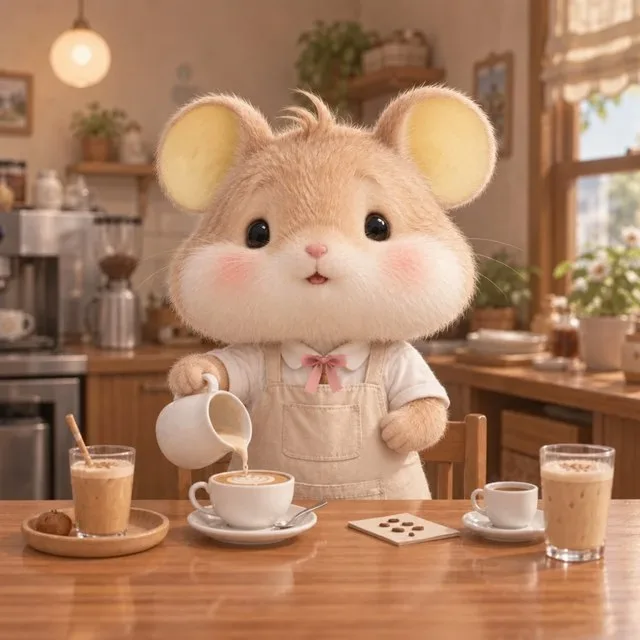
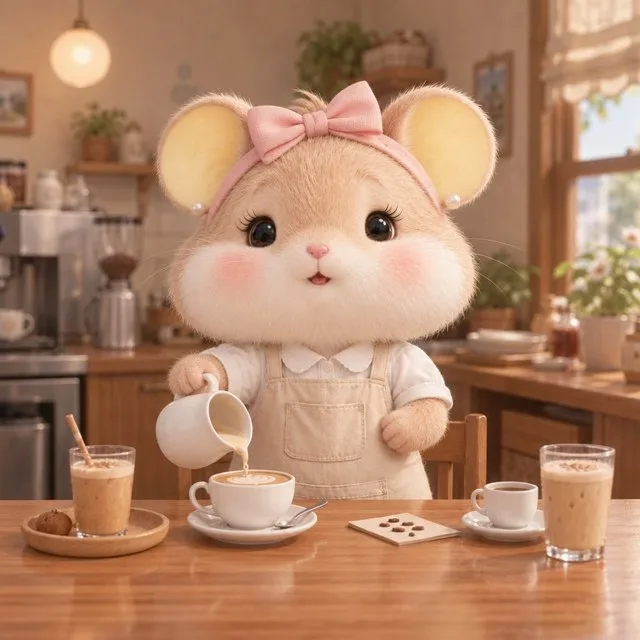
여성 험쮜 정장 장면 핑크 트위드 스타일
Claude-Session: https://claude.ai/code/session_013o6MwTRjv9wdDZ1RWn6mmU

diff --git a/sw.js b/sw.js
@@ -1,5 +1,5 @@
 // 자동 생성 파일: tools/build.py가 만든다. 직접 고치지 말고 tools/sw.template.js를 고칠 것
-const CACHE='humzzwi-2026.10.10-746b24';
+const CACHE='humzzwi-2026.10.10-a4d752';
 const ASSETS=["./", "index.html", "manifest.json", "icon-192.png", "icon-512.png", "apple-touch-icon.png", "fonts/GowunDodum-Regular.woff2", "fonts/Jua-Regular.woff2", "assets/a_bear.webp", "assets/a_daram.webp", "assets/a_daram_f.webp", "assets/a_eunbin.webp", "assets/a_fox.webp", "assets/a_hanmin.webp", "assets/a_hyunsu.webp", "assets/a_hz_walk.webp", "assets/a_hz_walk_b.webp", "assets/a_jaemin.webp", "assets/a_jiyoung.webp", "assets/a_lab.webp", "assets/a_sangho.webp", "assets/a_seohwi.webp", "assets/a_sumin.webp", "assets/badge.webp", "assets/c_ai.webp", "assets/c_ai_b.webp", "assets/c_blind.webp", "assets/c_blind_b.webp", "assets/c_blog.webp", "assets/c_blog_b.webp", "assets/c_cafe.webp", "assets/c_cafe_b.webp", "assets/c_cafe_b_w.webp", "assets/c_cafe_w.webp", "assets/c_coffee.webp", "assets/c_coffee_b.webp", "assets/c_content.webp", "assets/c_content_b.webp", "assets/c_cs.webp", "assets/c_cs_b.webp", "assets/c_date.webp", "assets/c_date_b.webp", "assets/c_daytrip.webp", "assets/c_daytrip_b.webp", "assets/c_english.webp", "assets/c_english_b.webp", "assets/c_erp.webp", "assets/c_erp_b.webp", "assets/c_ev_ceo.webp", "assets/c_ev_ceo_b.webp", "assets/c_ev_ceo_b_w.webp", "assets/c_ev_ceo_w.webp", "assets/c_ev_jobup.webp", "assets/c_ev_jobup_b.webp", "assets/c_ev_promo.webp", "assets/c_ev_promo_b.webp", "assets/c_excel.webp", "assets/c_excel_b.webp", "assets/c_filling.webp", "assets/c_filling_b.webp", "assets/c_formula.webp", "assets/c_formula_b.webp", "assets/c_friends.webp", "assets/c_friends_b.webp", "assets/c_global.webp", "assets/c_global_b.webp", "assets/c_gym.webp", "assets/c_gym_b.webp", "assets/c_half.webp", "assets/c_half_b.webp", "assets/c_ingredient.webp", "assets/c_ingredient_b.webp", "assets/c_jeju.webp", "assets/c_jeju_b.webp", "assets/c_keymsg.webp", "assets/c_keymsg_b.webp", "assets/c_leave.webp", "assets/c_leave_b.webp", "assets/c_lecture.webp", "assets/c_lecture_b.webp", "assets/c_license.webp", "assets/c_license_b.webp", "assets/c_logistics.webp", "assets/c_logistics_b.webp", "assets/c_mba.webp", "assets/c_mba_b.webp", "assets/c_mba_b_w.webp", "assets/c_mba_w.webp", "assets/c_md.webp", "assets/c_md_b.webp", "assets/c_minutes.webp", "assets/c_minutes_b.webp", "assets/c_orient.webp", "assets/c_orient_b.webp", "assets/c_overtime.webp", "assets/c_overtime_b.webp", "assets/c_package.webp", "assets/c_package_b.webp", "assets/c_pilates.webp", "assets/c_pilates_b.webp", "assets/c_pt.webp", "assets/c_pt_b.webp", "assets/c_research.webp", "assets/c_research_b.webp", "assets/c_review.webp", "assets/c_review_b.webp", "assets/c_run.webp", "assets/c_run_b.webp", "assets/c_schedule.webp", "assets/c_schedule_b.webp", "assets/c_selfdate.webp", "assets/c_selfdate_b.webp", "assets/c_settle.webp", "assets/c_settle_b.webp", "assets/c_settle_b_w.webp", "assets/c_settle_w.webp", "assets/c_shoot.webp", "assets/c_shoot_b.webp", "assets/c_shop_hb.webp", "assets/c_shop_hb_b.webp", "assets/c_shop_mall.webp", "assets/c_shop_mall_b.webp", "assets/c_shop_online.webp", "assets/c_shop_online_b.webp", "assets/c_snack.webp", "assets/c_snack_b.webp", "assets/c_store.webp", "assets/c_store_b.webp", "assets/c_tokyo.webp", "assets/c_tokyo_b.webp", "assets/c_trip.webp", "assets/c_trip_b.webp", "assets/c_walk.webp", "assets/c_walk_b.webp", "assets/d_aquarium_f.webp", "assets/d_aquarium_f_b.webp", "assets/d_aquarium_m.webp", "assets/d_aquarium_m_b.webp", "assets/d_bike_f.webp", "assets/d_bike_f_b.webp", "assets/d_bike_m.webp", "assets/d_bike_m_b.webp", "assets/d_coffeechat_f.webp", "assets/d_coffeechat_f_b.webp", "assets/d_coffeechat_m.webp", "assets/d_coffeechat_m_b.webp", "assets/d_coffeeget_f.webp", "assets/d_coffeeget_f_b.webp", "assets/d_coffeeget_m.webp", "assets/d_coffeeget_m_b.webp", "assets/d_coffeegive_f.webp", "assets/d_coffeegive_f_b.webp", "assets/d_coffeegive_m.webp", "assets/d_coffeegive_m_b.webp", "assets/d_coffeeshare_f.webp", "assets/d_coffeeshare_f_b.webp", "assets/d_coffeeshare_m.webp", "assets/d_coffeeshare_m_b.webp", "assets/d_confess_f.webp", "assets/d_confess_f_b.webp", "assets/d_confess_m.webp", "assets/d_confess_m_b.webp", "assets/d_exhibit_f.webp", "assets/d_exhibit_f_b.webp", "assets/d_exhibit_m.webp", "assets/d_exhibit_m_b.webp", "assets/d_hanok_f.webp", "assets/d_hanok_f_b.webp", "assets/d_hanok_m.webp", "assets/d_hanok_m_b.webp", "assets/d_movie_f.webp", "assets/d_movie_f_b.webp", "assets/d_movie_m.webp", "assets/d_movie_m_b.webp", "assets/d_park_f.webp", "assets/d_park_f_b.webp", "assets/d_park_m.webp", "assets/d_park_m_b.webp", "assets/d_picnic_f.webp", "assets/d_picnic_f_b.webp", "assets/d_picnic_m.webp", "assets/d_picnic_m_b.webp", "assets/d_popup_f.webp", "assets/d_popup_f_b.webp", "assets/d_popup_m.webp", "assets/d_popup_m_b.webp", "assets/d_ramen_f.webp", "assets/d_ramen_f_b.webp", "assets/d_ramen_m.webp", "assets/d_ramen_m_b.webp", "assets/d_vacation_f.webp", "assets/d_vacation_f_b.webp", "assets/d_vacation_m.webp", "assets/d_vacation_m_b.webp", "assets/ev_arrive.webp", "assets/ev_arrive_b.webp", "assets/ev_building.webp", "assets/ev_dinner.webp", "assets/ev_overload.webp", "assets/ev_pass.webp", "assets/ev_pass_b.webp", "assets/ev_present.webp", "assets/ev_reject.webp", "assets/ev_reject_b.webp", "assets/ev_studio.webp", "assets/ev_studio_b.webp", "assets/ev_subway.webp", "assets/ev_subway_b.webp", "assets/f_bear.webp", "assets/f_ceo.webp", "assets/f_daram.webp", "assets/f_daram_f.webp", "assets/f_eunbin.webp", "assets/f_fox.webp", "assets/f_hanmin.webp", "assets/f_hyunsu.webp", "assets/f_hz.webp", "assets/f_jaemin.webp", "assets/f_jiyoung.webp", "assets/f_lab.webp", "assets/f_sangho.webp", "assets/f_seohwi.webp", "assets/f_sumin.webp", "assets/hz.png", "assets/id_bad.webp", "assets/id_good.webp", "assets/id_ok.webp", "assets/lunch.webp", "assets/m_box.webp", "assets/m_box_b.webp", "assets/m_fit.webp", "assets/m_fit_b.webp", "assets/m_lab.webp", "assets/m_lab_b.webp", "assets/m_phone.webp", "assets/m_phone_b.webp", "assets/m_study.webp", "assets/m_study_b.webp", "assets/pl_boss.webp", "assets/pl_cafe.webp", "assets/pl_lab.webp", "assets/pl_mkt.webp", "assets/pl_ops.webp", "assets/pl_roof.webp", "assets/pl_sales.webp", "assets/pl_strat.webp", "assets/pl_studio.webp", "assets/pl_wh.webp", "assets/s_ceo.webp", "assets/s_ceo_w.webp", "assets/s_coffee.webp", "assets/s_coffee_b.webp", "assets/s_dark.webp", "assets/s_dark_b.webp", "assets/s_desk.webp", "assets/s_desk_b.webp", "assets/s_eat.webp", "assets/s_eat_b.webp", "assets/s_jump.webp", "assets/s_jump_b.webp", "assets/s_sleep.webp", "assets/s_sleep_b.webp", "assets/s_walk.webp", "assets/s_walk_b.webp", "assets/sc_cafe.webp", "assets/sc_factory.webp", "assets/sc_gym.webp", "assets/sc_home.webp", "assets/sc_lab.webp", "assets/sc_meeting.webp", "assets/sc_office.webp", "assets/sc_package.webp", "assets/sc_park.webp", "assets/sc_popup.webp", "assets/sc_rain.webp", "assets/sc_store.webp", "assets/sc_studio.webp", "assets/sc_study.webp", "assets/tp_boss_1.webp", "assets/tp_boss_2.webp", "assets/tp_cafe_1.webp", "assets/tp_cafe_2.webp", "assets/tp_lab_1.webp", "assets/tp_lab_2.webp", "assets/tp_mkt_1.webp", "assets/tp_mkt_2.webp", "assets/tp_ops_1.webp", "assets/tp_ops_2.webp", "assets/tp_roof_1.webp", "assets/tp_roof_2.webp", "assets/tp_sales_1.webp", "assets/tp_sales_2.webp", "assets/tp_strat_1.webp", "assets/tp_strat_2.webp", "assets/tp_studio_1.webp", "assets/tp_studio_2.webp", "assets/tp_wh_1.webp", "assets/tp_wh_2.webp", "assets/v_short.webp", "assets/v_short_b.webp"];
 self.addEventListener('install',e=>{self.skipWaiting();e.waitUntil((async()=>{
   const c=await caches.open(CACHE),total=ASSETS.length,all=async()=>self.clients.matchAll({includeUncontrolled:true});

diff --git a/index.html b/index.html
@@ -7,7 +7,7 @@
 <meta name="apple-mobile-web-app-capable" content="yes"><meta name="mobile-web-app-capable" content="yes">
 <meta name="apple-mobile-web-app-status-bar-style" content="black-translucent"><meta name="apple-mobile-web-app-title" content="험쮜메이커">
 <meta name="theme-color" content="#2a1f33">
-<link rel="manifest" href="manifest.json?v=746b24"><link rel="apple-touch-icon" sizes="180x180" href="apple-touch-icon.png?v=746b24"><link rel="icon" type="image/png" sizes="192x192" href="icon-192.png?v=746b24">
+<link rel="manifest" href="manifest.json?v=a4d752"><link rel="apple-touch-icon" sizes="180x180" href="apple-touch-icon.png?v=a4d752"><link rel="icon" type="image/png" sizes="192x192" href="icon-192.png?v=a4d752">
 <style>
 /* 글꼴은 파일로 같이 들고 다닌다 (비행기 모드에서도 같은 모양) */
 @font-face{font-family:"Jua";src:url(fonts/Jua-Regular.woff2) format("woff2");font-display:swap}
@@ -3798,7 +3798,7 @@ $('#btn-start').onclick=async()=>{
 setSound(AU.on);
 /* ================= 빌드 코드 · 오프라인(홈 화면 앱) =================
    tools/build.py가 BUILD를 매긴다. 홈 화면에 추가하면 처음 한 번 그림을 전부 받아 두고, 그 뒤로는 비행기 모드에서도 실행된다 */
-const BUILD='2026.10.10-746b24';
+const BUILD='2026.10.10-a4d752';
 $('#build-title').textContent=$('#build-menu').textContent=`빌드 ${BUILD}`;
 if('serviceWorker' in navigator&&/^https?:$/.test(location.protocol)){
   const bar=document.createElement('div');bar.className='sw-bar';bar.hidden=true;document.body.appendChild(bar);

diff --git a/README.md b/README.md
@@ -29,7 +29,7 @@
 - 목표: 인턴에서 CEO까지. 3개월마다 분기 평가(12번), 인턴 → 사원 → 주임 → 대리 → 팀장 → 이사 → CEO. 대리는 론칭, 팀장·이사는 월 매출, CEO는 해외 1곳 이상 + 브랜드 점수 68↑ + 상사 평가 60↑ + 동료 평균 ♥45↑
 - 연말: 1년차는 연말정산 퀴즈 + 「막내 장기자랑」, 2년차는 자동 연말정산 + 「시크릿 산타」 + 「K-뷰티 어워즈」
 - 📤 엔딩 도감 공유: 도감·엔딩 화면의 공유 버튼 → 도감 카드 그림(1080×1350) + 링크(#dex=…)를 휴대폰 공유창(카톡·인스타 등)으로 보냄. 링크를 연 친구는 「친구의 엔딩 도감」에서 내 도감과 비교(✓ 나도 · 나는 아직!)
-- 대화 스탠딩: 동료는 대화창 뒤 레이어에 서고, ♥가 높을수록 가까이 — 어색할 땐(♥0) 멀리서 작게 전신(발끝이 대화창 위) → 친해질수록 커져서 단짝(♥80)이면 허리 위 상반신이 꽉 참. 아무리 가까워도 머리~허리 상반신과 양팔은 화면 안에 다 보이게(넓은 그림은 폭에 맞춤). 그림 위쪽 한계는 상태창의 실제 아래 끝(아이폰 노치 포함)을 재서 정하고, 대화 중엔 목표 알약·머리 위 이름표를 숨김(이름·♥는 대화창 이름줄에). 선택지는 얼굴 칸까지 넓게. 스케줄·활동 그림이 대화창에 나올 땐 뒤 장면 배경을 빼고 그 그림을 흐리게 깔아 그림 하나에만 눈이 가게. 스케줄(자기계발·휴식·부업 등)은 카드 하나로: 진행 막대가 끝나면 같은 카드 아래가 결과 글·능력치 변화·다음 버튼으로 바뀜(그림은 한 번만, 진행·결과 카드 크기 같음). 스케줄·회사일 카드 배경은 분홍 땡땡이(body[data-mbg] A, B 모눈·C 장소 어둡게도 있음). 카드는 상태창 아래 공간 가운데에, 글이 길면 그림 칸만 낮춰 한 화면에. 상단 자원 줄은 날짜 상자·내 프로필 이름표 아래로 내려 겹치지 않게, 폭이 모자라면 라벨 없이 아이콘+숫자만. 회사일(미니게임 뒤 포함) 결과도 같은 가운데 카드로, 얻은 능력치·상태 변화는 더보기 없이 전부. 미니게임 화면만 그 장소 배경, 진행·결과 카드는 모두 분홍 땡땡이. 장소 배경은 화면 위·아래 끝까지 꽉 채움(상태창·대화창이 그 위에). 인물 크기는 대화창 길이와 상관없이 「짧은 대화창」 기준으로 고정(길어지면 대화창이 덮음). 결과 다음 한 번 더 누르면 같은 카드에 「지금 험쮜는」 능력치 6종·체력·스트레스 막대(이번에 오른 만큼 밝게). 그림이 든 대화창(데이트·이벤트 장면)은 상태창 아래 공간 가운데에. 빌딩 화면 외관은 파스텔 동화 빌딩(분홍 세모 지붕 「CANVAS LAB」 간판·구름 하늘·크림 벽·1F 잔디·지하 B1). 하늘·땅 배경은 건물과 함께 스크롤(background-attachment:local), 옆 흔들림·고무줄 튕김 없음. 입사 첫날 「회사 한 바퀴」 투어: 사수 서휘가 1F 카페→2F 영업·경영지원→3F 마케팅·스튜디오→4F 전략기획·연구실→5F 부장실→옥상→B1 창고를 안내 — 장소마다 서휘 안내 → 「👀 둘러보기」를 누르면 장소만 담은 세로 일러스트 2장(tp_장소_1·_2, 험쮜 책상엔 험쮜 사진 액자·웰컴 선물)을 화면 가득 보여 주고, 그다음 처음 만나는 동료는 자기소개. 시작 전 「건너뛰기」·장소마다 「남은 투어 건너뛰기」. 휴일 「주말 데이트」(사내연애 중): 갈 때마다 성수동 팝업·놀이공원·영화관·전시회·한강 자전거·아쿠아리움·북촌 한옥 카페 중 지난번과 다른 코스, 7·8월엔 그해 첫 데이트가 여름 휴가(바다). 코스별 2프레임 움짤(d_코스_m·f + _b, 기존 벚꽃 고백 그림을 바탕으로 같은 비율·화풍)과 대사. 결과·능력치 화면에서도 그림 2장이 계속 번갈아 움직임. 험쮜가 여성이면 넥타이 장면(CEO 취임·MBA·법인카드 정산·카페 알바·CEO 스탠딩)을 리본 블라우스·치마 정장 버전(_w)으로
+- 대화 스탠딩: 동료는 대화창 뒤 레이어에 서고, ♥가 높을수록 가까이 — 어색할 땐(♥0) 멀리서 작게 전신(발끝이 대화창 위) → 친해질수록 커져서 단짝(♥80)이면 허리 위 상반신이 꽉 참. 아무리 가까워도 머리~허리 상반신과 양팔은 화면 안에 다 보이게(넓은 그림은 폭에 맞춤). 그림 위쪽 한계는 상태창의 실제 아래 끝(아이폰 노치 포함)을 재서 정하고, 대화 중엔 목표 알약·머리 위 이름표를 숨김(이름·♥는 대화창 이름줄에). 선택지는 얼굴 칸까지 넓게. 스케줄·활동 그림이 대화창에 나올 땐 뒤 장면 배경을 빼고 그 그림을 흐리게 깔아 그림 하나에만 눈이 가게. 스케줄(자기계발·휴식·부업 등)은 카드 하나로: 진행 막대가 끝나면 같은 카드 아래가 결과 글·능력치 변화·다음 버튼으로 바뀜(그림은 한 번만, 진행·결과 카드 크기 같음). 스케줄·회사일 카드 배경은 분홍 땡땡이(body[data-mbg] A, B 모눈·C 장소 어둡게도 있음). 카드는 상태창 아래 공간 가운데에, 글이 길면 그림 칸만 낮춰 한 화면에. 상단 자원 줄은 날짜 상자·내 프로필 이름표 아래로 내려 겹치지 않게, 폭이 모자라면 라벨 없이 아이콘+숫자만. 회사일(미니게임 뒤 포함) 결과도 같은 가운데 카드로, 얻은 능력치·상태 변화는 더보기 없이 전부. 미니게임 화면만 그 장소 배경, 진행·결과 카드는 모두 분홍 땡땡이. 장소 배경은 화면 위·아래 끝까지 꽉 채움(상태창·대화창이 그 위에). 인물 크기는 대화창 길이와 상관없이 「짧은 대화창」 기준으로 고정(길어지면 대화창이 덮음). 결과 다음 한 번 더 누르면 같은 카드에 「지금 험쮜는」 능력치 6종·체력·스트레스 막대(이번에 오른 만큼 밝게). 그림이 든 대화창(데이트·이벤트 장면)은 상태창 아래 공간 가운데에. 빌딩 화면 외관은 파스텔 동화 빌딩(분홍 세모 지붕 「CANVAS LAB」 간판·구름 하늘·크림 벽·1F 잔디·지하 B1). 하늘·땅 배경은 건물과 함께 스크롤(background-attachment:local), 옆 흔들림·고무줄 튕김 없음. 입사 첫날 「회사 한 바퀴」 투어: 사수 서휘가 1F 카페→2F 영업·경영지원→3F 마케팅·스튜디오→4F 전략기획·연구실→5F 부장실→옥상→B1 창고를 안내 — 장소마다 서휘 안내 → 「👀 둘러보기」를 누르면 장소만 담은 세로 일러스트 2장(tp_장소_1·_2, 험쮜 책상엔 험쮜 사진 액자·웰컴 선물)을 화면 가득 보여 주고, 그다음 처음 만나는 동료는 자기소개. 시작 전 「건너뛰기」·장소마다 「남은 투어 건너뛰기」. 휴일 「주말 데이트」(사내연애 중): 갈 때마다 성수동 팝업·놀이공원·영화관·전시회·한강 자전거·아쿠아리움·북촌 한옥 카페 중 지난번과 다른 코스, 7·8월엔 그해 첫 데이트가 여름 휴가(바다). 코스별 2프레임 움짤(d_코스_m·f + _b, 기존 벚꽃 고백 그림을 바탕으로 같은 비율·화풍)과 대사. 결과·능력치 화면에서도 그림 2장이 계속 번갈아 움직임. 험쮜가 여성이면 넥타이 장면(CEO 취임·MBA·법인카드 정산·카페 알바·CEO 스탠딩)을 핑크 트위드 재킷·리본 머리띠·진주 귀걸이·속눈썹 버전(_w)으로
 - 커피 사 가기(영업팀에 다람 주임이 있을 때): 설렘 단계(어색·썸·연인)에 따라 그림과 대사가 달라짐
 - 예전 사무실 대화·업무 회의·생산 라인·팀 배치 코드는 남아 있지만 한 달 흐름에서는 쓰지 않음
 - **홈 화면 앱 · 비행기 모드**: 사파리에서 https://3678132-rgb.github.io/humzzwi-maker/ 열기 → 공유 → 홈 화면에 추가. 처음 한 번 온라인에서 열면 그림·글꼴 223개를 받아 두고(「오프라인 준비 완료」 표시), 그 뒤로는 비행기 모드에서도 실행. 새 버전은 온라인일 때 받아 두었다가 타이틀 화면에서 적용
